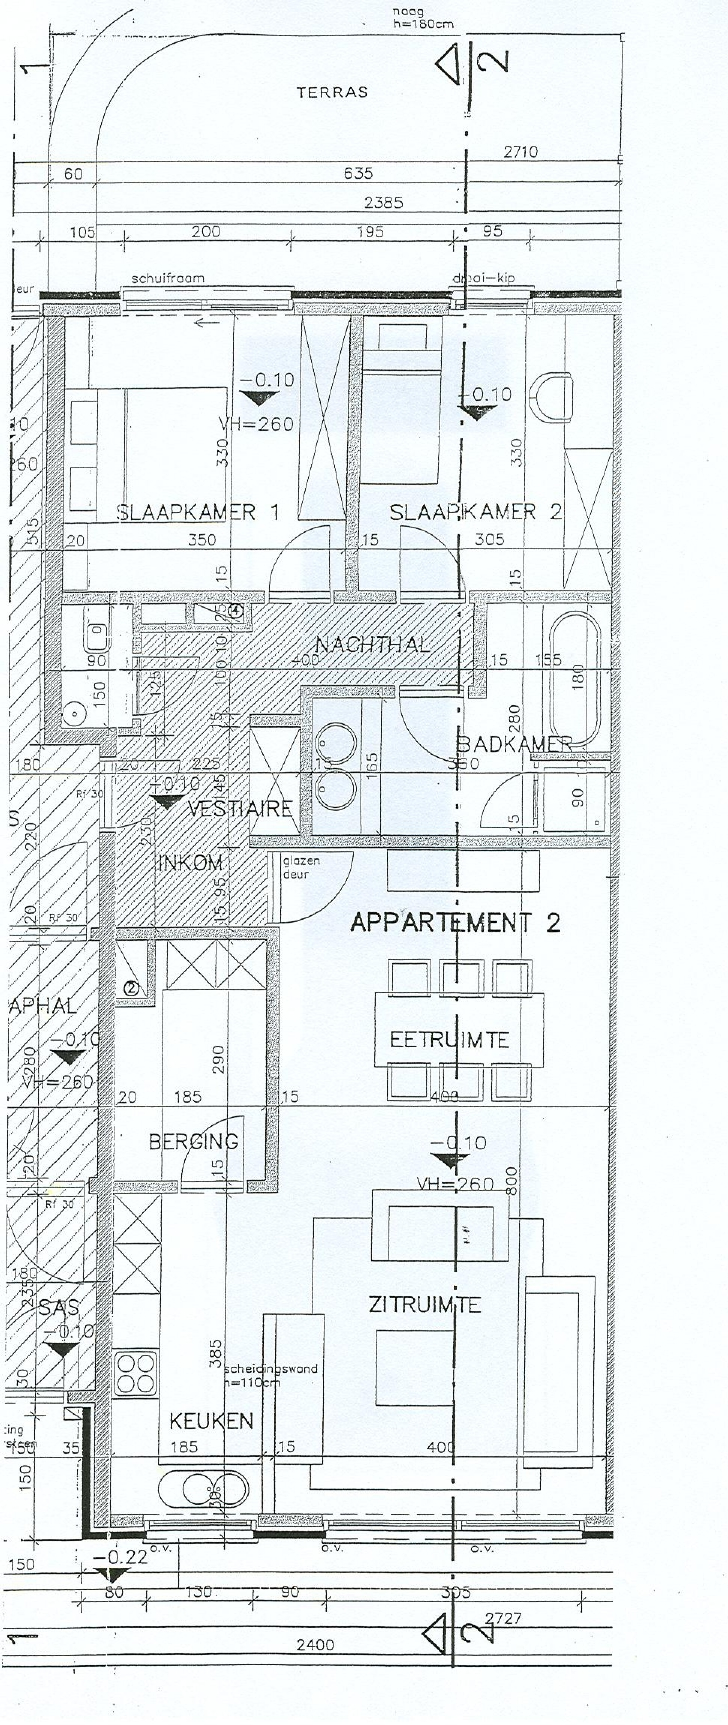
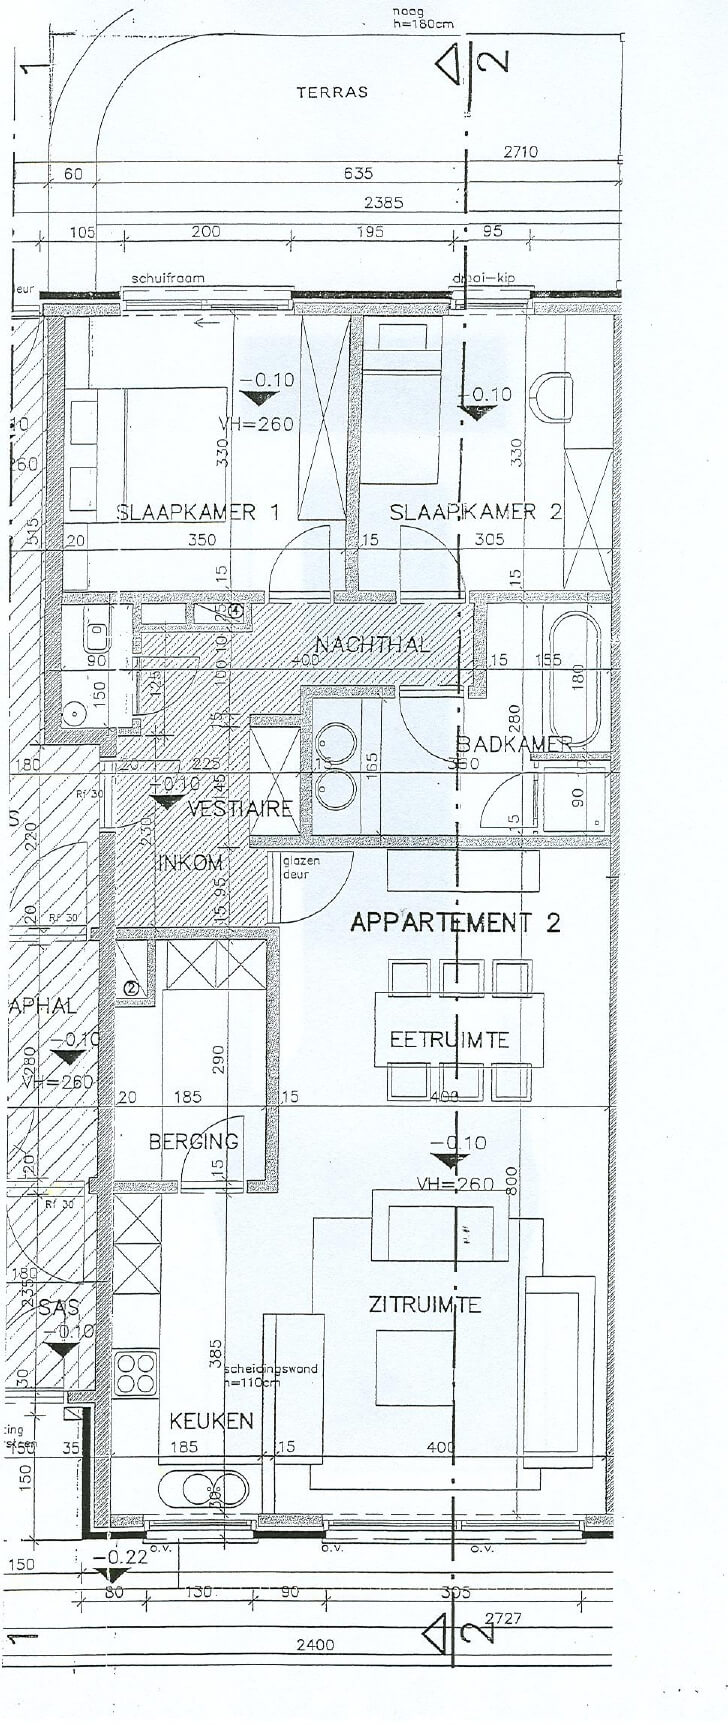
photo update

diff --git a/src/lib/components/Gallery.svelte b/src/lib/components/Gallery.svelte
@@ -1,13 +1,36 @@
 <script>
-  import { BedDouble, Bath, Sun, DoorOpen, Home, ChevronLeft, ChevronRight } from "lucide-svelte";
+  import {
+    BedDouble,
+    Bath,
+    Sun,
+    DoorOpen,
+    Home,
+    Trees,
+    Sofa,
+    LayoutDashboard,
+    ChevronLeft,
+    ChevronRight,
+  } from "lucide-svelte";
 
   const images = [
-    { label: "Slaapkamer 1", icon: BedDouble, src: ["/images/bedroom1.png", "/images/bedroom1_1.png"] },
-    { label: "Slaapkamer 2", icon: BedDouble, src: ["/images/bedroom2.png"] },
-    { label: "Keuken", icon: Home, src: ["/images/kitchen.png"] },
-    { label: "Badkamer", icon: Bath, src: ["/images/masterBathroom_1.png", "/images/masterBathroom_2.png", "/images/masterBathroom_3.png"] },
-    { label: "Terras", icon: Sun, src: ["/images/terrace.png"] },
-    { label: "Garage", icon: DoorOpen, src: ["/images/garage.png"] },
+    { label: "Slaapkamer 1", icon: BedDouble, src: ["/images/bedroom1.webp", "/images/bedroom1_1.webp"] },
+    { label: "Slaapkamer 2", icon: BedDouble, src: ["/images/bedroom2.webp"] },
+    { label: "Keuken", icon: Home, src: ["/images/kitchen.webp"] },
+
+    { label: "Badkamer", icon: Bath, src: ["/images/masterBathroom_1.webp", "/images/masterBathroom_2.webp", "/images/masterBathroom_3.webp"] },
+    { label: "Gastentoilet", icon: Bath, src: ["/images/guestToilet.webp"] },
+
+    { label: "Woonkamer", icon: Sofa, src: ["/images/livingRoom_1.webp", "/images/livingRoom_2.webp"] },
+    { label: "Lobby", icon: LayoutDashboard, src: ["/images/lobby_1.webp", "/images/lobby_2.webp", "/images/lobby_3.webp"] },
+
+    { label: "Garage", icon: DoorOpen, src: ["/images/garage_1.webp", "/images/garage_2.webp"] },
+    { label: "Ingang", icon: DoorOpen, src: ["/images/entrance.webp"] },
+
+    { label: "Gang", icon: LayoutDashboard, src: ["/images/corridor_1.webp", "/images/corridor_2.webp", "/images/corridor_3.webp", "/images/corridor_4.webp"] },
+    { label: "Stookruimte", icon: LayoutDashboard, src: ["/images/boilerRoom_1.webp", "/images/boilerRoom_2.webp"] },
+
+    { label: "Terras", icon: Sun, src: ["/images/terrace.webp"] },
+    { label: "Straatkant", icon: Trees, src: ["/images/roadSide.webp"] },
   ];
 
   let active = images[0];
@@ -36,18 +59,21 @@
 
   <div class="max-w-6xl mx-auto px-4 grid md:grid-cols-4 gap-8 items-start">
     <!-- Knoppen links -->
-    <div class="flex flex-col gap-4 md:col-span-1">
-      {#each images as category}
-        <button
-          on:click={() => selectCategory(category)}
-          class="flex items-center gap-3 px-4 py-3 rounded-xl shadow-md bg-white hover:bg-gray-100 transition text-left
-          {active.label === category.label ? 'ring-2 ring-blue-500' : ''}"
-        >
-          <svelte:component this={category.icon} size={22} />
-          <span class="font-medium">{category.label}</span>
-        </button>
-      {/each}
-    </div>
+    <div class="flex flex-col gap-4 md:col-span-1 max-h-[600px] overflow-y-auto pr-2">
+  {#each images as category}
+    <button
+      on:click={() => selectCategory(category)}
+      class="w-full flex items-center gap-3 px-4 py-3 rounded-xl shadow-md transition text-left
+      {active.label === category.label 
+        ? 'bg-gradient-to-r from-blue-100 to-blue-200 text-blue-800' 
+        : 'bg-white hover:bg-gray-100'}"
+    >
+      <svelte:component this={category.icon} size={22} />
+      <span class="font-medium">{category.label}</span>
+    </button>
+  {/each}
+</div>
+
 
     <!-- Foto rechts -->
     <div class="md:col-span-3 flex justify-center relative">
